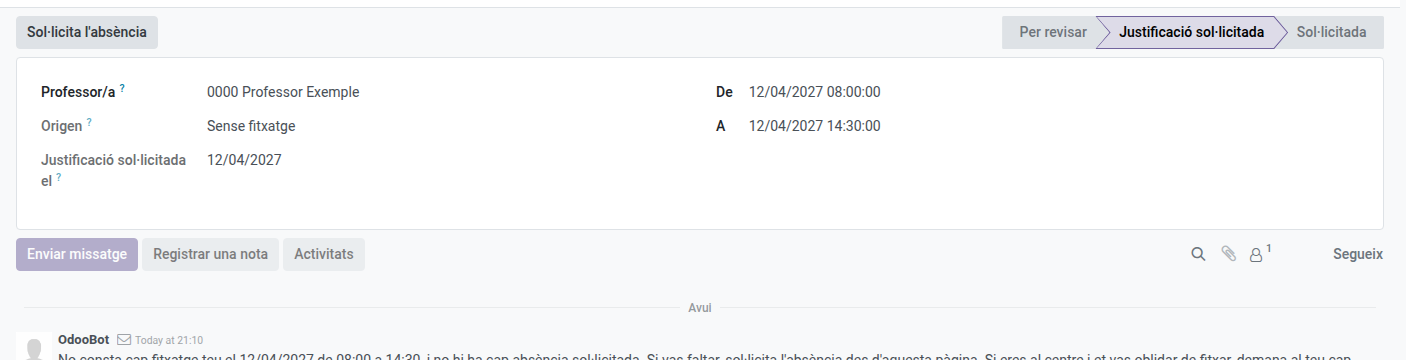
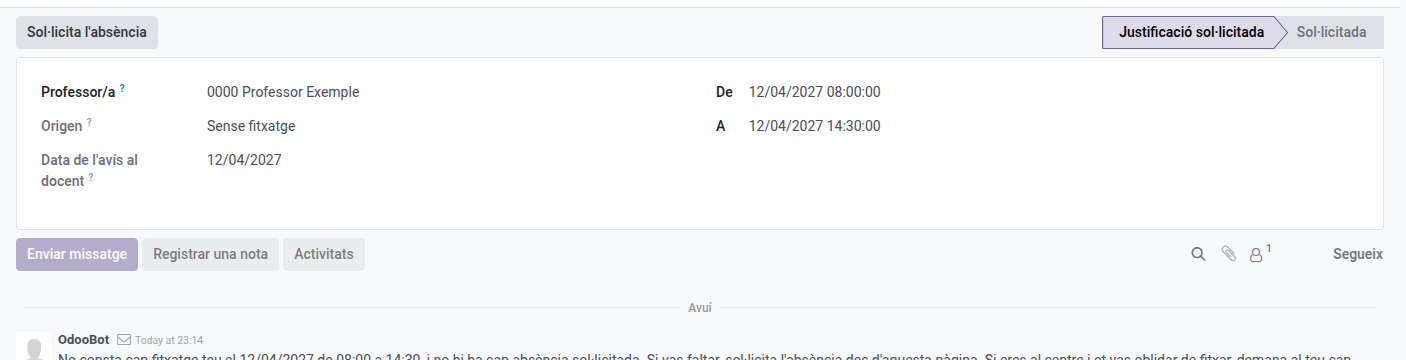
#707 No native archive, delete for administrators only, teacher status bar, Catalan leave name

Changed region(s): [[0.7034, 0.0306, 0.7952, 0.1528], [0.0306, 0.4278, 0.1529, 0.4583], [0.0306, 0.4889, 0.0612, 0.5194]]

diff --git a/static/tests/tours/absence_pending_tour.js b/static/tests/tours/absence_pending_tour.js
@@ -75,6 +75,10 @@ registry.category("web_tour.tours").add("ems_absence_pending_teacher", {
             trigger: ".o_form_view:not(:has(.o_field_widget[name='note']))",
             content: "Without the note of whoever entered it",
         },
+        {
+            trigger: ".o_form_statusbar .o_field_widget[name='state']:not(:has([data-value='pending']))",
+            content: "Without the 'To review' step, a stage the teacher never sees (issue #707)",
+        },
         ...clickAction("action_request_absence", "Request the absence"),
         {
             trigger: ".o_form_view .o_field_widget[name='request_date_from'] input",

diff --git a/models/employees/absence_pending.py b/models/employees/absence_pending.py
@@ -79,7 +79,9 @@ class EmsAbsencePending(models.Model):
              "corrected: the teacher was at the centre. Requested: linked for good to an absence "
              "request, whatever becomes of it. Discarded: by the reviewer, or because the "
              "teacher's check-in of that day showed up after all.")
-    active = fields.Boolean(default=True, help="Archived when the reviewer discards it.")
+    # Readonly so that Odoo offers no Archive/Unarchive of its own: Discard is the only way, with
+    # its checks and its note (issue #707).
+    active = fields.Boolean(default=True, readonly=True, help="Archived when the reviewer discards it.")
     # Issue #707: "Create absence" prepares the request for the teacher, never files it: only the
     # teacher accepts the responsible declaration and sends it.
     leave_type_id = fields.Many2one(
@@ -99,6 +101,7 @@ class EmsAbsencePending(models.Model):
         string="Reported", readonly=True, copy=False,
         help="Already reported to the teacher's Head of Studies, who got an activity to follow it up.")
     can_request = fields.Boolean(compute="_compute_can_request")
+    is_own = fields.Boolean(string="Is own", compute="_compute_is_own")
     can_review = fields.Boolean(string="Can review", compute="_compute_can_review")
     can_correct_check_in = fields.Boolean(string="Can correct check-in", compute="_compute_can_review")
 
@@ -141,6 +144,14 @@ class EmsAbsencePending(models.Model):
         """Only the teacher themselves requests their absence, once asked to and while nobody has."""
         for absence in self:
             absence.can_request = absence.state in ASKED_STATES and absence.employee_id.user_id == self.env.user
+
+    @api.depends('employee_id')
+    @api.depends_context('uid')
+    def _compute_is_own(self):
+        """The teacher reading their own entry: their status bar has no "To review" step, a stage
+        they never see (issue #707)."""
+        for absence in self:
+            absence.is_own = bool(absence.employee_id.user_id) and absence.employee_id.user_id == self.env.user
 
     @api.depends('state', 'employee_id', 'date_to')
     @api.depends_context('uid')

diff --git a/models/employees/absence.py b/models/employees/absence.py
@@ -464,10 +464,21 @@ class EmsAbsenceLeave(models.Model):
         """
         super()._compute_display_name()
         for leave in self:
+            leave._ems_translate_person_on_type()
             long_name = leave.holiday_status_id.name
             short_name = leave.holiday_status_id.ems_short_name
             if long_name and short_name and short_name != long_name and leave.display_name:
                 leave.display_name = leave.display_name.replace(long_name, short_name)
+
+    def _ems_translate_person_on_type(self):
+        """hr_holidays' "<person> on <type>: <duration> (<date>)" has no Catalan translation, so
+        a Catalan reader got the English "on" in the middle of the name (issue #707). EMS cannot
+        translate another module's code string, so the untranslated part is replaced here, only
+        when it came out untranslated."""
+        prefix = f"{self.employee_id.name} on {self.holiday_status_id.name}: "
+        if self.employee_id and self.holiday_status_id and (self.display_name or '').startswith(prefix):
+            self.display_name = _("%(person)s on %(leave_type)s", person=self.employee_id.name,
+                                  leave_type=self.holiday_status_id.name) + self.display_name[len(prefix) - 2:]
 
     is_absence_direction = fields.Boolean(
         string="Current user is Direction", compute="_compute_is_absence_manager",

diff --git a/tests/test_absence_detection.py b/tests/test_absence_detection.py
@@ -506,6 +506,9 @@ class TestAbsenceDetection(TransactionCase):
         self.assertEqual(absence.state, 'linked')
         self.assertEqual(absence.leave_id, leave)
         self.assertEqual(leave.state, 'confirm', 'waits for its approver, as any request')
+        if self.env['res.lang']._lang_get('ca_ES'):
+            self.assertNotIn(' on ', leave.with_context(lang='ca_ES').display_name, 'translated (hr_holidays has no Catalan)')
+            self.assertIn('TAD Teacher, ', leave.with_context(lang='ca_ES').display_name)
 
     def test_an_administrator_reviews_too(self):
         """The administrator sits above the whole hierarchy, though outside it."""
@@ -526,6 +529,8 @@ class TestAbsenceDetection(TransactionCase):
         self.assertFalse(self._detected(), 'out of the default list')
         self.assertEqual(self.Pending.with_context(active_test=False).search([('id', '=', absence.id)]), absence)
         self.assertTrue(absence.message_ids.filtered(lambda message: 'Discarded by' in message.body))
+        self.assertTrue(self.Pending.fields_get(['active'])['active']['readonly'],
+                        'no Archive/Unarchive of its own: Discard is the way')
         self.assertFalse(self._teacher_messages(absence))
         self.assertFalse(self.env['hr.attendance'].search([('employee_id', '=', self.teacher.id)]))
         self.assertFalse(absence.leave_id)

diff --git a/tests/test_absence_pending.py b/tests/test_absence_pending.py
@@ -82,8 +82,9 @@ class TestAbsencePending(TransactionCase):
 
         self.assertEqual(self.Pending.with_user(self.head_of_studies).search([('id', '=', pending.id)]), pending)
         pending.with_user(self.head_of_studies).note = 'Known in advance'
-        pending.with_user(self.head_of_studies).unlink()
-        self.assertFalse(pending.exists())
+        with self.assertRaises(AccessError):
+            pending.with_user(self.head_of_studies).unlink()  # issue #707: administrators only
+        self.assertTrue(pending.exists())
 
     def test_head_of_studies_cannot_reach_another_branch(self):
         pending = self._pending()
@@ -127,8 +128,9 @@ class TestAbsencePending(TransactionCase):
 
         self.assertEqual(self.Pending.with_user(self.department_chief).search([('id', '=', pending.id)]), pending)
         pending.with_user(self.department_chief).note = 'Phoned in'
-        pending.with_user(self.department_chief).unlink()
-        self.assertFalse(pending.exists())
+        with self.assertRaises(AccessError):
+            pending.with_user(self.department_chief).unlink()  # issue #707: administrators only
+        self.assertTrue(pending.exists())
 
     def test_department_chief_cannot_reach_another_department(self):
         pending = self._pending()

diff --git a/tests/test_access_matrix.py b/tests/test_access_matrix.py
@@ -15,9 +15,10 @@ ACCESS_MATRIX = {
     # write with sudo() (see models/attendance/absence_coverage.py).
     'ems.absence_cover': {'teacher': 'r', 'department_chief': 'r', 'head_of_studies': 'r'},
     # Issue #696: a teacher reads their own detected absences (rule_absence_pending_own); the
-    # chiefs above them manage them (rule_absence_pending_hierarchy).
+    # chiefs above them manage them (rule_absence_pending_hierarchy). Issue #707: only the
+    # administrators delete one; everybody else discards it (Discard, for its reviewers).
     'ems.absence_pending': {
-        'teacher': 'r', 'department_chief': 'rwcu', 'head_of_studies': 'rwcu', 'academic_admin': 'rwcu'},
+        'teacher': 'r', 'department_chief': 'rwc', 'head_of_studies': 'rwc', 'academic_admin': 'rwcu'},
     # Issue #707: "Create absence", for whoever reviews detected absences; who may review each
     # entry is checked when it runs (ems.absence_pending._ems_review).
     'ems.absence_pending.leave_wizard': {

diff --git a/docs/en/developers/employees/absence.md b/docs/en/developers/employees/absence.md
@@ -726,7 +726,8 @@ erDiagram
 | `note` | Optional, for the author's own reference. `groups="ems.group_department_chief,base.group_system"`: the teacher never reads it |
 | `state` | `pending` (*To review*), `justification_requested` (*Justification requested*), `absence_prepared` (*Absence prepared*), `corrected` (*Check-in corrected*), `linked` (*Requested*), `discarded` (*Discarded*). Stored, not computed from `leave_id`. `pending`, `justification_requested` and `absence_prepared` mean "not resolved yet" (`UNRESOLVED_STATES`: the board plans around them); the last two mean "the teacher has been asked to act" (`ASKED_STATES`: the reminders go on) |
 | `leave_type_id` | The absence type the reviewer chose with **Create absence**: the teacher's request opens with it |
-| `active` | Archived when a person discards the entry (it leaves the default list, still found with the *Archived* filter). A discard by the system (the check-in turned up) leaves it active; the chatter says which of the two it was |
+| `active` | Archived when a person discards the entry (it leaves the default list, still found with the *Archived* filter). A discard by the system (the check-in turned up) leaves it active; the chatter says which of the two it was. `readonly=True`, so Odoo offers no Archive/Unarchive of its own (it only does on an editable `active`): Discard is the only way |
+| `is_own` | Non-stored, `@api.depends_context('uid')`: the teacher reading their own entry. Swaps the status bar for one without the *To review* step, which they never see |
 | `leave_id` | The teacher's own request it was linked to, or the one the reviewer created. `ondelete='set null'` |
 | `justification_date` | *Teacher notified on*: the day the reviewer asked for a justification or prepared the absence. The reminder and report delays count from it |
 | `reminder_date`, `escalated` | The reminder markers, as on `hr.leave` (see *Reminders* above) |
@@ -893,7 +894,7 @@ an entry reviewed a week late does not reach its Head of Studies the same mornin
 cold: detecting one day takes 0.06 s (28 queries); the first reminder run of a day 0.4 s; every
 later run of the same day 0.07 s, since only what is still due is searched.
 
-**Access.** `ems.group_department_chief` has an ACL on the model (full CRUD): Department and
+**Access.** `ems.group_department_chief` has an ACL on the model (read, write, create; no delete, see below): Department and
 Seminar Chiefs hold it, and the Head of Studies, their Deputy and the Director imply it (issue
 #604; until then it was the Head of Studies' group). `rule_absence_pending_hierarchy` (`security/rules/attendance.xml`) narrows it
 to the teachers (`employee_type = 'teacher'`) the user reaches in any of four ways:
@@ -931,6 +932,8 @@ reaches; `rule_absence_pending_hierarchy` therefore also leaves out the user's o
 entries (a Department Chief or Head of Studies is in their own branch), and the teacher picker
 never offers the user themselves. The note stays out of their reach through the field's `groups`.
 
+**Deleting** is for the administrators only (issue #707): the Department Chief group's ACL has no unlink, so a chief or Head of Studies who entered one by mistake has it discarded instead, which leaves a trace.
+
 **Reviewing** is not a matter of ACL: a Department or Seminar Chief may read, enter and edit the
 entries of their branch, but only the teacher's attendance approvers and the administrators may
 run the four actions (see *Reviewing* above). The list's server actions and the wizard's act_window
@@ -942,6 +945,7 @@ those same three groups.
 |---|---|---|---|---|---|
 | Read the branch's entries | yes | yes | yes | yes | own, once not `pending` |
 | Enter / edit an entry | yes | yes | yes | yes | no |
+| Delete an entry | no | no | no | yes | no |
 | Request justification, Correct check-in, Create absence, Discard | no | yes | yes | yes | no |
 | Request the absence | no | no | no | no | own, once asked |
 

diff --git a/docs/es/head_of_studies/absences.md b/docs/es/head_of_studies/absences.md
@@ -212,7 +212,7 @@ La lista se abre con las ausencias en estado **Por revisar** y **Justificación 
 - **Pedir justificación**: se pide al docente que la explique. A partir de ahora, al inicio de su jornada se le recuerda que solicite la ausencia (o, si estaba en el centro, que te pida que registres su fichaje), cada día si el centro no lo ha cambiado. Si unos días después de que la pidieras (tres, si el centro no lo ha cambiado) todavía no la ha solicitado, recibes un mensaje y una actividad para hacer el seguimiento.
 - **Corregir fichaje**: el docente estaba en el centro. El EMS registra su asistencia durante las horas detectadas, con tu nombre como quien la ha registrado, y no se avisa a nadie. Si llegó tarde, se mantiene el fichaje que hizo y se añade la parte que faltaba antes. Solo se ofrece una vez terminada la ausencia.
 - **Crear ausencia**: preparas la solicitud de ausencia para el docente, para el día y las horas detectados, con el tipo de ausencia que eliges en el diálogo. No se envía: se avisa al docente, que la abre ya rellenada, la revisa, acepta la declaración responsable y la envía, y a partir de ahí sigue los pasos habituales (aprobación, justificante, ATRI, Dirección). Mientras no la envíe se le recuerda, y al cabo de unos días se te avisa, igual que con **Pedir justificación**.
-- **Descartar**: no era nada. La ausencia detectada se cierra y se archiva, y no se avisa a nadie. Puedes encontrarla igualmente con el filtro **Archivado**.
+- **Descartar**: no era nada. La ausencia detectada se cierra y se archiva, y no se avisa a nadie. Puedes encontrarla igualmente con el filtro **Archivado**. Solo los administradores pueden borrar del todo una ausencia detectada.
 
 Para resolver varias a la vez, selecciónalas en la lista y elige la acción en el menú **Acciones** (el engranaje) de arriba. Cada acción solo se aplica a las ausencias que todavía esperan revisión y que puedes revisar; el EMS te indica cuántas ha dejado y por qué.
 

diff --git a/docs/en/head_of_studies/absences.md b/docs/en/head_of_studies/absences.md
@@ -214,7 +214,7 @@ The list opens with the absences in **To review** and **Justification requested*
 - **Request justification**: the teacher is asked to explain it. From now on they are reminded at the start of their working day to request the absence (or, if they were at the centre, to ask you to record their check-in), every day unless the centre has set otherwise. If they still have not requested it a few days after you asked (three, unless the centre has set otherwise), you receive a message and an activity to follow it up.
 - **Correct check-in**: the teacher was at the centre. EMS records their attendance for the hours detected, with your name as whoever registered it, and nobody is told. If they arrived late, the check-in they did make is kept and the missing part before it is added. Only offered once the absence is over.
 - **Create absence**: you prepare the absence request for the teacher, for the day and hours detected, with the absence type you choose in the dialog. It is not sent: the teacher is told, opens it already filled in, checks it, accepts the responsible declaration and sends it, and from then on it follows the usual steps (approval, supporting document, ATRI, Direction). Until they send it they are reminded, and you are told after a few days, as with **Request justification**.
-- **Discard**: it was nothing. The detected absence is closed and archived, and nobody is told. You can still find it with the **Archived** filter.
+- **Discard**: it was nothing. The detected absence is closed and archived, and nobody is told. You can still find it with the **Archived** filter. Only the administrators can delete a detected absence altogether.
 
 To deal with several at once, select them in the list and choose the action from the **Actions** menu (the gear) at the top. Each action is only applied to the absences still waiting for review that you may review; EMS tells you how many it skipped and why.
 

diff --git a/docs/ca/head_of_studies/absences.md b/docs/ca/head_of_studies/absences.md
@@ -212,7 +212,7 @@ La llista s'obre amb les absències en estat **Per revisar** i **Justificació s
 - **Demana justificació**: es demana al docent que l'expliqui. A partir d'ara, a l'inici de la seva jornada se li recorda que sol·liciti l'absència (o, si era al centre, que et demani que registris el seu fitxatge), cada dia si el centre no ho ha canviat. Si uns dies després que la demanessis (tres, si el centre no ho ha canviat) encara no l'ha sol·licitada, reps un missatge i una activitat per fer-ne el seguiment.
 - **Corregeix el fitxatge**: el docent era al centre. L'EMS registra la seva assistència durant les hores detectades, amb el teu nom com a qui l'ha registrada, i no s'avisa ningú. Si va arribar tard, es manté el fitxatge que va fer i s'afegeix la part que faltava abans. Només s'ofereix un cop acabada l'absència.
 - **Crea l'absència**: prepares la sol·licitud d'absència per al docent, per al dia i les hores detectats, amb el tipus d'absència que tries al diàleg. No s'envia: s'avisa el docent, que l'obre ja emplenada, la revisa, accepta la declaració responsable i l'envia, i a partir d'aquí segueix els passos habituals (aprovació, justificant, ATRI, Direcció). Mentre no l'enviï se li recorda, i al cap d'uns dies se t'avisa, igual que amb **Demana justificació**.
-- **Descarta**: no era res. L'absència detectada es tanca i s'arxiva, i no s'avisa ningú. La pots trobar igualment amb el filtre **Arxivat**.
+- **Descarta**: no era res. L'absència detectada es tanca i s'arxiva, i no s'avisa ningú. La pots trobar igualment amb el filtre **Arxivat**. Només els administradors poden esborrar del tot una absència detectada.
 
 Per resoldre'n diverses alhora, selecciona-les a la llista i tria l'acció al menú **Accions** (l'engranatge) de dalt. Cada acció només s'aplica a les absències que encara esperen revisió i que pots revisar; l'EMS t'indica quantes n'ha deixat i per què.
 

diff --git a/changelog/707-detected-absence-review-circuit.md b/changelog/707-detected-absence-review-circuit.md
@@ -10,6 +10,8 @@
 - Discard: `discarded` + archived (new `active` field), with a note naming who; a discard by a later check-in keeps the system's note and stays active.
 - Who may review: `hr.employee._ems_is_attendance_approver()`, extracted from `ems.attendance_correction._check_is_approver` and shared by both (technical administrators now included too). Department and Seminar Chiefs keep reading and entering entries, but cannot review.
 - The guard duty board, the teacher's own absence linking and the later check-in review treat `pending`, `justification_requested` and `absence_prepared` alike (still unresolved).
+- Detected absences: no native Archive/Unarchive (`active` is readonly, Discard is the only way); deleting is for the administrators only (the Department Chief group's ACL loses unlink); the teacher's own entry shows a status bar without the "To review" step.
+- Absence requests: hr_holidays' "<person> on <type>" name has no Catalan translation, so EMS replaces the untranslated part ("<person>, <type>").
 - Academic administrators can now read and manage detected absences (ACL, rule, menu): they already received the "not requested" report activity, and now the review task, for teachers with no Head of Studies above them, on a record they could not open.
 - Migration 18.0.0.41.0 (post-migrate): entries already reminded or reported move to `justification_requested` (with `justification_date` = the absence's last day, so their reminders carry on as before); the rest stay "To review" and get their review task. No clean-install counterpart needed (no detected absences on a new database).
 - Docs: developer doc (state diagram, actions, access table); Head of Studies, teacher, admin and guard duty schedule manuals in ca/es/en; two screenshots refreshed.

diff --git a/docs/ca/teachers/guard-duty-schedule.md b/docs/ca/teachers/guard-duty-schedule.md
@@ -161,7 +161,7 @@ La via normal sempre és que el docent sol·liciti l'absència ell mateix. Fes s
 4. Si vols, afegeix-hi **Notes** per a tu. El docent pot obrir l'entrada, però no veu mai les notes.
 5. Desa.
 
-L'absència surt llavors al quadre com a pendent d'aprovar (vermell clar en cursiva), i la pots organitzar tal com s'explica a continuació. Després la revisa el cap d'estudis del docent (vegeu [Absències detectades](../head_of_studies/absences.md#absències-detectades)): només es demana al docent que la sol·liciti si el cap d'estudis ho decideix. Quan el docent sol·licita l'absència, l'absència detectada s'hi vincula sola i el que hagis organitzat es manté tal com estava. Si finalment el docent no falta, esborra l'entrada.
+L'absència surt llavors al quadre com a pendent d'aprovar (vermell clar en cursiva), i la pots organitzar tal com s'explica a continuació. Després la revisa el cap d'estudis del docent (vegeu [Absències detectades](../head_of_studies/absences.md#absències-detectades)): només es demana al docent que la sol·liciti si el cap d'estudis ho decideix. Quan el docent sol·licita l'absència, l'absència detectada s'hi vincula sola i el que hagis organitzat es manté tal com estava. Si finalment el docent no falta, el cap d'estudis la descarta en revisar-la; només els administradors la poden esborrar del tot.
 
 ---
 
